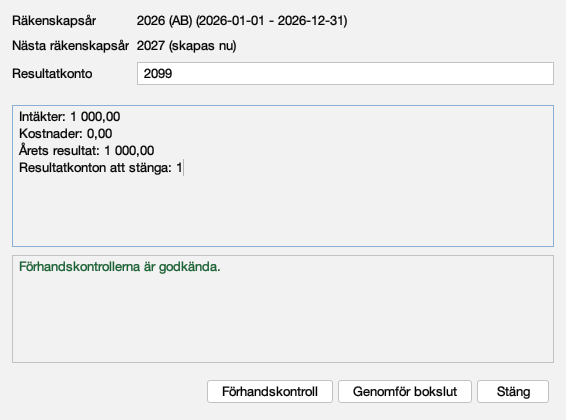
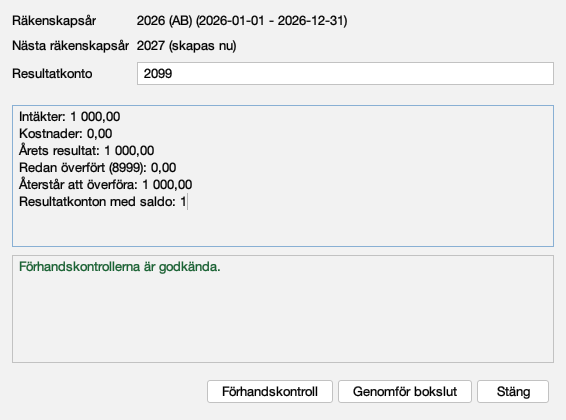
Clarify year-end closing previews

Changed region(s): [[0.03, 0.3714, 0.3604, 0.4952]]

diff --git a/app/src/main/resources/docs/user-manual.md b/app/src/main/resources/docs/user-manual.md
@@ -45,8 +45,9 @@ Programmet kan hantera flera företag i samma installation. Varje företag har s
 - Lås alla perioder innan årsbokslut genomförs.
 - Kör `Årsbokslut...` i fliken `Räkenskapsår`.
 - Systemet överför återstående årsresultat via konto `8999` mot konto `2099` för aktiebolag eller `2019` för enskild firma och handels-/kommanditbolag som standard och skapar nästa års ingående balanser. Konto `8999` måste vara aktivt och klassat som kostnad med debet som normalsida när ett resultat återstår att överföra. Om företagsformen inte är angiven används `2099`. Ett annat eget-kapital-konto kan väljas vid bokslut.
+- För HB/KB bokas hela återstående resultatet mot `2019` (Årets resultat, delägare 1). För flera delägare måste resultatet därefter fördelas manuellt till delägarnas konton, till exempel `2029` eller företagets egna kapitalkonton.
 - Intäkts- och kostnadskonton behåller sina saldon i det stängda året. Resultaträkningen visar resultatet före överföringen via `8999`; endast balanskonton förs vidare till nästa års ingående balanser.
-- Förhandsgranskningen visar blockerande fel och varningar innan bokslutet genomförs.
+- Förhandsgranskningen visar årets resultat före överföring, redan överfört belopp via `8999` och återstående belopp att överföra. Överföringen räknas inte som en kostnad i sammanställningen. Blockerande fel och varningar visas innan bokslutet genomförs.
 - Räkenskapsår kan raderas från fliken `Räkenskapsår` när bevarandespärren har passerat och inga blockerande beroenden finns. Förhandsgranskningen visar hur många verifikationer, bilagor, rapporter, momsperioder och andra poster som tas bort.
 
 ## Backup, restore och systeminformation

diff --git a/req/issue-130-year-end-closing.md b/req/issue-130-year-end-closing.md
@@ -43,3 +43,15 @@ implemented in a separate previewable, audited workflow. Opening balances must
 continue to match the preceding year's closing balances; reallocations belong in
 new-year vouchers. Later allocations to retained earnings or dividends require
 the applicable profit-allocation decision and must not be inferred by year closing.
+
+## Preview and MCP amounts
+
+The preview separates operating income and expenses (excluding 8999), the actual
+annual result (`net_result`), prior transfers (`transferred_result`), and the amount
+still to post (`remaining_result`). Both preview and closing responses use
+`result_accounts_with_balance_count` for the count of nonzero result-account balances,
+including 8999 when nonzero. The closing response retains the preview figures: `remaining_result` is the amount
+posted by that operation. The former `result_account_count` field is removed.
+The dialog resolves its default account inside the preview worker and displays errors
+without enabling closing. Account 8999 is excluded from the income statement regardless
+of its subgroup. SIE result records omit zero balances.

diff --git a/skill/accounting-mcp.md b/skill/accounting-mcp.md
@@ -104,7 +104,7 @@ Only call write tools after the user explicitly confirms the proposed action.
 
 1. Call `list_fiscal_years` and confirm the year is open.
 2. Call `preview_year_end`.
-3. Show `blocking_issues`, `warnings`, `net_result`, and whether the next fiscal year will be created automatically.
+3. Show `blocking_issues`, `warnings`, the year’s result (`net_result`), the amount already transferred via 8999 (`transferred_result`), the remaining transfer (`remaining_result`), and whether the next fiscal year will be created automatically. `income_total` and `expense_total` exclude 8999; `result_accounts_with_balance_count` counts result accounts with nonzero balances.
 4. If `ready_to_close` is false or `preview_token` is missing, explain the blockers and do not call `close_fiscal_year`.
 5. If `ready_to_close` is true, ask the user to confirm closing the year.
 6. Only call `close_fiscal_year` after confirmation, passing the returned `preview_token`.
